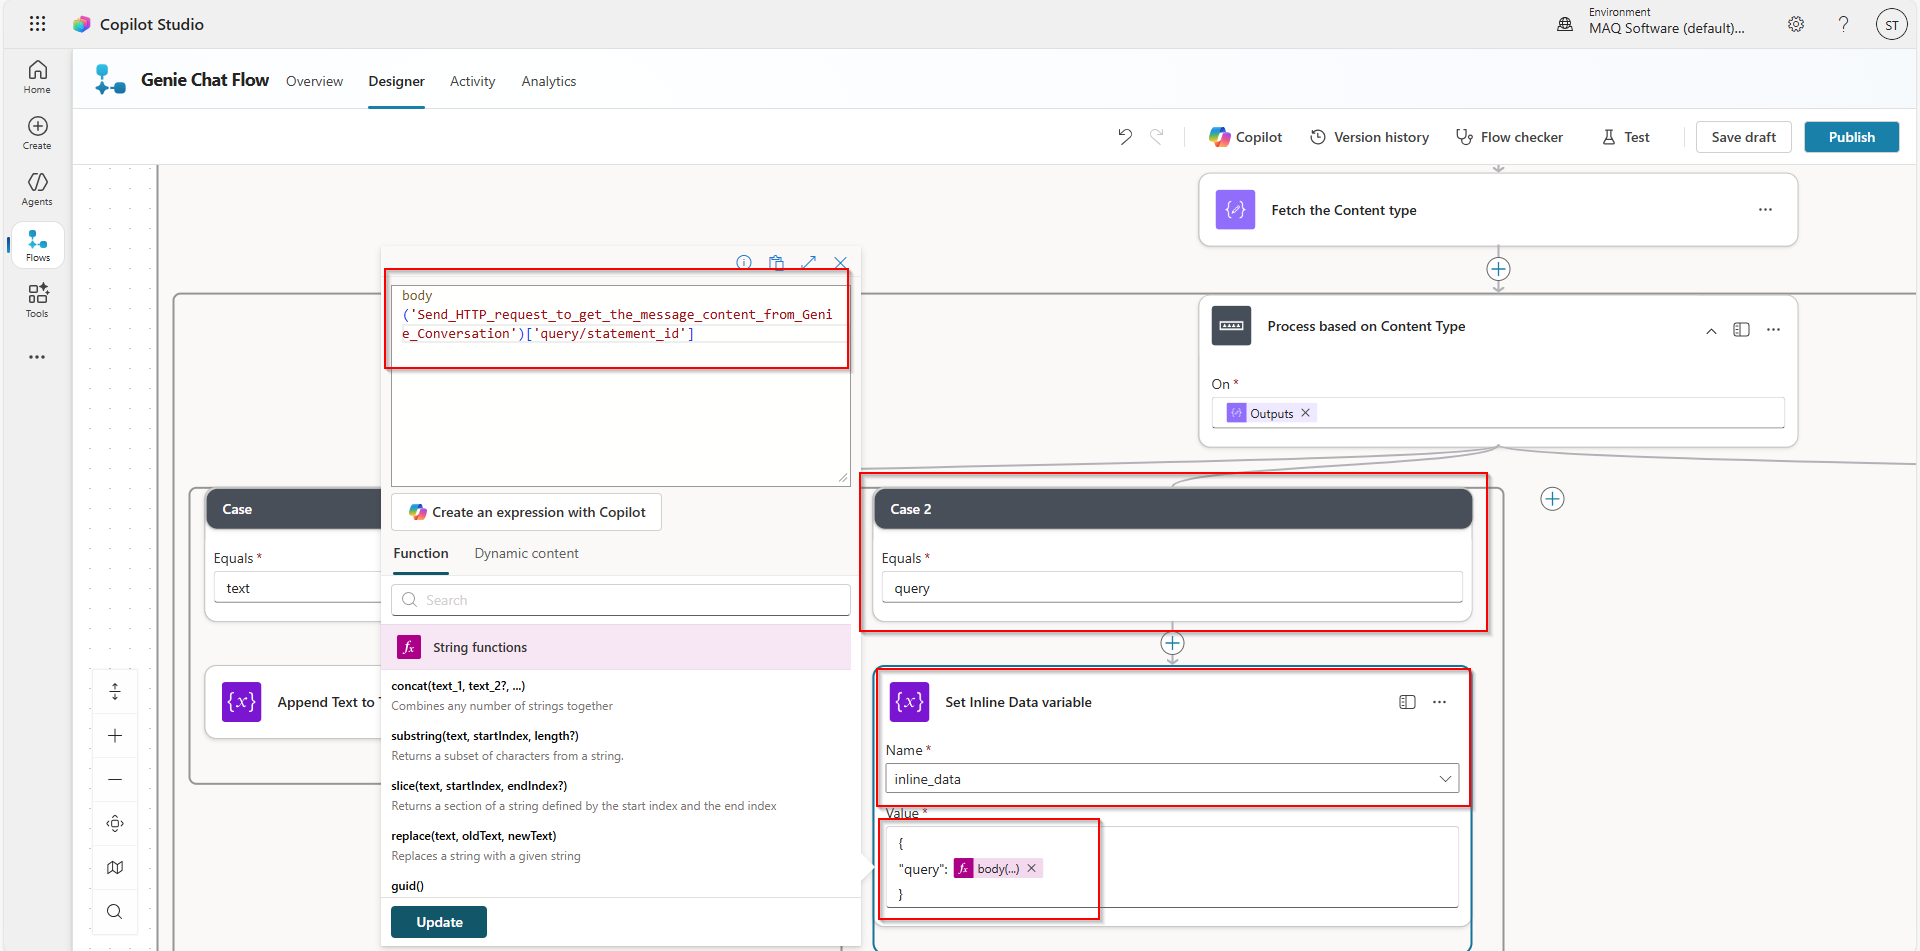
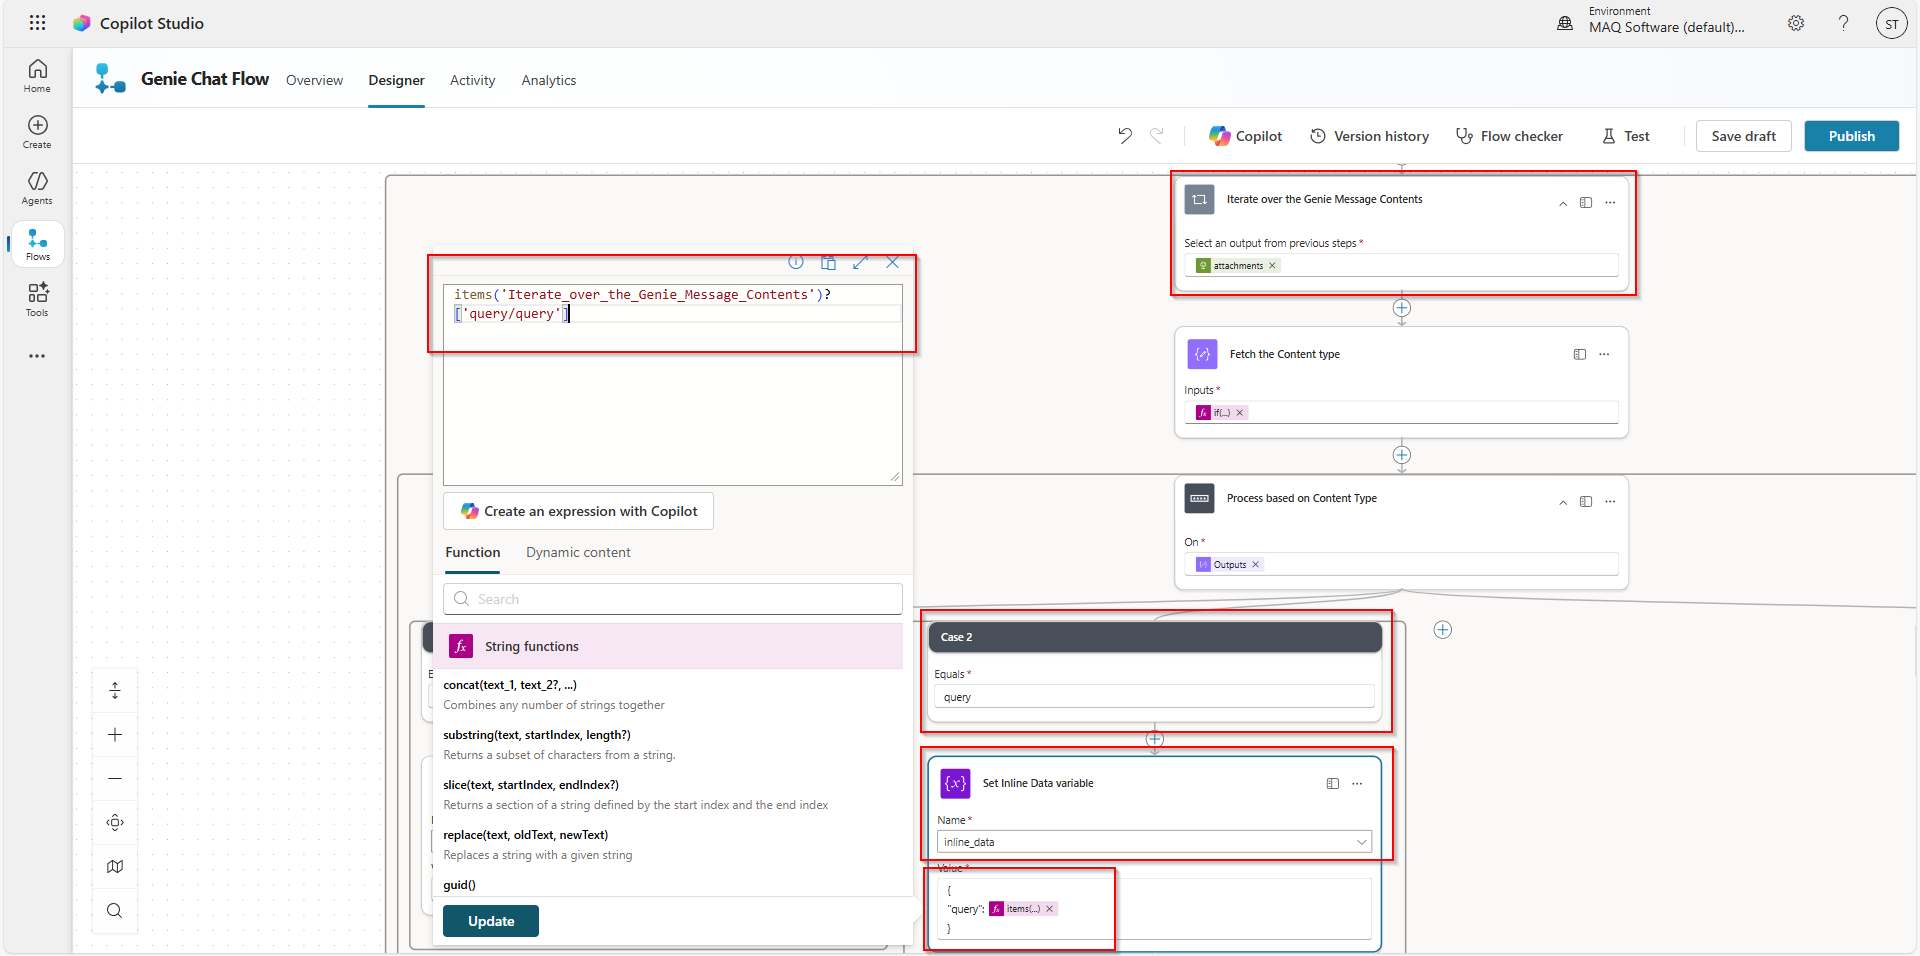
Minor changes 3

diff --git a/docs/agent-steps/Copilot_Studio_Agent_Flow_Setup.md b/docs/agent-steps/Copilot_Studio_Agent_Flow_Setup.md
@@ -9,12 +9,11 @@
 | 3 | Click on **New agent flow**. | ![step-2](../../screenshots/Copilot_Studio_Agent_Flow_Setup/step-2.png) |
 | 4 | Add the **When an agent calls the flow** trigger. Add an input for **User Query** as text. | ![step-3](../../screenshots/Copilot_Studio_Agent_Flow_Setup/step-3.png) |
 | 5 | Click on the Plus symbol under the **When an agent calls the flow** action. Search and add **Initialize Variable** actions for:<br>- **Space-ID** (String): User needs to fill the Space ID of the Databricks Genie <br>- **Token** (String): User needs to fill the PAT Token of Databricks <br>- **Text Output** (String): Stores text output from Databricks Genie - initial value to be left empty <br>- **Inline Data** (Object): Stores query results for visualization - initial value to be left empty | ![step-4](../../screenshots/Copilot_Studio_Agent_Flow_Setup/step-4.png) |
-| 6 | Add an **HTTP** action from the HTTP subsection to send a **POST** request to the Databricks Genie API to start the conversation:<br>- **URL:** `<Your Databricks endpoint>/api/2.0/genie/spaces/<Space-ID>/start-conversation`<br>- **Header:** `Authorization: Bearer <Token variable>`<br>- **Body:** JSON with `content: User Query` | ![step-5.1](../../screenshots/Copilot_Studio_Agent_Flow_Setup/step-5.1.png)<br>![step-5.2.1](../../screenshots/Copilot_Studio_Agent_Flow_Setup/step-5.2.1.png)<br>![step-5.2.2](../../screenshots/Copilot_Studio_Agent_Flow_Setup/step-5.2.2.png)![step-5.3](../../screenshots/Copilot_Studio_Agent_Flow_Setup/step-5.3.png)<br> |
-| 7 | Add an **HTTP** action to send a **GET** request to Databricks Genie API to get the status of the conversation message (use `conversation_id` and `message_id` from previous step):<br>- **URL:** `<Your Databricks endpoint>/api/2.0/genie/spaces/<Space-ID>/conversations/<conversation_id>/messages/<message_id>`<br>- **Header:** `Authorization: Bearer <Token variable>` | ![step-6.1](../../screenshots/Copilot_Studio_Agent_Flow_Setup/step-6.1.png)<br>![step-6.2](../../screenshots/Copilot_Studio_Agent_Flow_Setup/step-6.2.png) |
+| 6 | Add an **HTTP** action from the HTTP subsection to send a **POST** request to the Databricks Genie API to start the conversation:<br>- **URL:** `<Your Databricks endpoint>/api/2.0/genie/spaces/<Space-ID>/start-conversation`<br>- **Header:** `Authorization: Bearer <Token variable>`<br>- **Body:** JSON with `content: User Query` | ![step-5.1](../../screenshots/Copilot_Studio_Agent_Flow_Setup/step-5.1.png)<br>![step-5.2](../../screenshots/Copilot_Studio_Agent_Flow_Setup/step-5.2.png)<br>![step-5.3](../../screenshots/Copilot_Studio_Agent_Flow_Setup/step-5.3.png)![step-5.4](../../screenshots/Copilot_Studio_Agent_Flow_Setup/step-5.4.png)<br> |
+| 7 | Add an **HTTP** action to send a **GET** request to Databricks Genie API to get the status of the conversation message (use `conversation_id` and `message_id` from previous step):<br>- **conversation_id:** `body('HTTP action created in Step 6')?['conversation_id']`<br>- **message_id:** `body('HTTP action created in Step 6')?['message_id']`<br>- **URL:** `<Your Databricks endpoint>/api/2.0/genie/spaces/<Space-ID>/conversations/<conversation_id>/messages/<message_id>`<br>- **Header:** `Authorization: Bearer <Token variable>` | ![step-6.1](../../screenshots/Copilot_Studio_Agent_Flow_Setup/step-6.1.png)<br>![step-6.2](../../screenshots/Copilot_Studio_Agent_Flow_Setup/step-6.2.png) |
 | 8 | Add **Initialize Variable** action to store the status of the conversation message. | ![step-7](../../screenshots/Copilot_Studio_Agent_Flow_Setup/step-7.png) |
-| 9 | Add an **HTTP** action to send a **GET** request to Databricks Genie API to get the status of the conversation message every 5 seconds until the status is **SUCCEEDED**: <br>&nbsp;&nbsp;&nbsp;1. Add a **Do until** action to check the status. <br>&nbsp;&nbsp;&nbsp;2. Inside the **Do until** action, add a **Delay** action (not **Delay until** action) to keep a delay of 5 seconds between the pings. <br>&nbsp;&nbsp;&nbsp;3. Add an **HTTP** action from the HTTP subsection to send the get request from the Genie Conversation API using the following details:<br>&nbsp;&nbsp;&nbsp;&nbsp;&nbsp;&nbsp;- **URL:** `<Your Databricks endpoint>/api/2.0/genie/spaces/<Space-ID>/conversations/<conversation_id>/messages/<message_id>`<br>&nbsp;&nbsp;&nbsp;&nbsp;&nbsp;&nbsp;- **Header:** `Authorization: Bearer <Token variable>`<br>&nbsp;&nbsp;&nbsp;4. Add a **Set Variable** action to update the Status variable with the current value of HTTP action. <br>&nbsp;&nbsp;&nbsp;5. Update the until part with **Status** is equal to COMPLETED. | ![step-8.1](../../screenshots/Copilot_Studio_Agent_Flow_Setup/step-8.1.png)<br>![step-8.2](../../screenshots/Copilot_Studio_Agent_Flow_Setup/step-8.2.png)![step-8.3](../../screenshots/Copilot_Studio_Agent_Flow_Setup/step-8.3.png)<br>![step-8.4](../../screenshots/Copilot_Studio_Agent_Flow_Setup/step-8.4.png) |
-| 10 | Add an **HTTP** action to send a **GET** request to Databricks Genie API to get the message content:<br>- **URL:** `<Your Databricks endpoint>/api/2.0/genie/spaces/<Space-ID>/conversations/<conversation_id>/messages/<message_id>`<br>- **Header:** `Authorization: Bearer <Token variable>` | ![step-9](../../screenshots/Copilot_Studio_Agent_Flow_Setup/step-9.png) |
-| 11 | We get 2 types of message content from the Genie API: text and query. For simplicity, we are focusing only on the **text** part and will be just passing the **query** as is to the user. <br>&nbsp;&nbsp;&nbsp;1. Add an **Apply to each** action to iterate over the message contents fetched from the Databricks Genie API. <br>&nbsp;&nbsp;&nbsp;2. Add a **Compose** action for storing the result of the conditional statement as mentioned in the screenshot <br>&nbsp;&nbsp;&nbsp;3. Add a **Switch** action that checks the output of the previous Compose action. <br>&nbsp;&nbsp;&nbsp;&nbsp;&nbsp;&nbsp;- If the message content type is **text**, store it in the **Text Output** variable by adding an **Append variable** action. <br>&nbsp;&nbsp;&nbsp;&nbsp;&nbsp;&nbsp;- If the message content type is **query**, store it in the **Inline Data** variable by adding a **Set variable** action. | ![step-10.1](../../screenshots/Copilot_Studio_Agent_Flow_Setup/step-10.1.png)<br>![step-10.2](../../screenshots/Copilot_Studio_Agent_Flow_Setup/step-10.2.png)<br>![step-10.3](../../screenshots/Copilot_Studio_Agent_Flow_Setup/step-10.3.png)<br>![step-10.4](../../screenshots/Copilot_Studio_Agent_Flow_Setup/step-10.4.png)<br>![step-10.5](../../screenshots/Copilot_Studio_Agent_Flow_Setup/step-10.5.png) |
+| 9 | Add an **HTTP** action to send a **GET** request to Databricks Genie API to get the status of the conversation message every 5 seconds until the status is **COMPLETED**: <br>&nbsp;&nbsp;&nbsp;1. Add a **Do until** action to check the status. <br>&nbsp;&nbsp;&nbsp;2. Inside the **Do until** action, add a **Delay** action (not **Delay until** action) to keep a delay of 5 seconds between the pings. <br>&nbsp;&nbsp;&nbsp;3. Add an **HTTP** action from the HTTP subsection to send the get request from the Genie Conversation API using the following details:<br>&nbsp;&nbsp;&nbsp;&nbsp;&nbsp;&nbsp;- **conversation_id:** `body('HTTP action created in Step 6')?['conversation_id']`<br>&nbsp;&nbsp;&nbsp;&nbsp;&nbsp;&nbsp;- **message_id:** `body('HTTP action created in Step 6')?['message_id']`<br>&nbsp;&nbsp;&nbsp;&nbsp;&nbsp;&nbsp;- **URL:** `<Your Databricks endpoint>/api/2.0/genie/spaces/<Space-ID>/conversations/<conversation_id>/messages/<message_id>`<br>&nbsp;&nbsp;&nbsp;&nbsp;&nbsp;&nbsp;- **Header:** `Authorization: Bearer <Token variable>`<br>&nbsp;&nbsp;&nbsp;4. Add a **Set Variable** action to update the Status variable with the current value of HTTP action. <br>&nbsp;&nbsp;&nbsp;5. Update the until part with **Status** is equal to **COMPLETED**. Add the **Timeout** as `PT5M`. | ![step-8.1](../../screenshots/Copilot_Studio_Agent_Flow_Setup/step-8.1.png)<br>![step-8.2](../../screenshots/Copilot_Studio_Agent_Flow_Setup/step-8.2.png)![step-8.3](../../screenshots/Copilot_Studio_Agent_Flow_Setup/step-8.3.png)<br>![step-8.4](../../screenshots/Copilot_Studio_Agent_Flow_Setup/step-8.4.png) |
+| 10 | Add an **HTTP** action to send a **GET** request to Databricks Genie API to get the message content:<br>&nbsp;&nbsp;&nbsp;- **conversation_id:** `body('HTTP action created in Step 6')?['conversation_id']`<br>&nbsp;&nbsp;&nbsp;- **message_id:** `body('HTTP action created in Step 6')?['message_id']`<br>&nbsp;&nbsp;&nbsp;- **URL:** `<Your Databricks endpoint>/api/2.0/genie/spaces/<Space-ID>/conversations/<conversation_id>/messages/<message_id>`<br>&nbsp;&nbsp;&nbsp;- **Header:** `Authorization: Bearer <Token variable>` | ![step-9](../../screenshots/Copilot_Studio_Agent_Flow_Setup/step-9.png) |
+| 11 | We get 2 types of message content from the Genie API: text and query. For simplicity, we are focusing only on the **text** part and will be just passing the **query** as is to the user. <br>&nbsp;&nbsp;&nbsp;1. Add an **Apply to each** action to iterate over the message contents fetched from the Databricks Genie API. <br>&nbsp;&nbsp;&nbsp;&nbsp;&nbsp;&nbsp;- **attachments:** `body('HTTP action created in Step 10')?['attachments']`<br>&nbsp;&nbsp;&nbsp;2. Add a **Compose** action for storing the result of the conditional statement as mentioned in the screenshot. <br>&nbsp;&nbsp;&nbsp;3. Add a **Switch** action that checks the output of the previous Compose action. Click on the Plus symbol to add cases. <br>&nbsp;&nbsp;&nbsp;&nbsp;&nbsp;&nbsp;- If the message content type is **text**, store it in the **Text Output** variable by adding an **Append variable** action. <br>&nbsp;&nbsp;&nbsp;&nbsp;&nbsp;&nbsp;- If the message content type is **query**, store it in the **Inline Data** variable by adding a **Set variable** action. | ![step-10.1](../../screenshots/Copilot_Studio_Agent_Flow_Setup/step-10.1.png)<br>![step-10.2](../../screenshots/Copilot_Studio_Agent_Flow_Setup/step-10.2.png)<br>![step-10.3](../../screenshots/Copilot_Studio_Agent_Flow_Setup/step-10.3.png)<br>![step-10.4](../../screenshots/Copilot_Studio_Agent_Flow_Setup/step-10.4.png)<br>![step-10.5](../../screenshots/Copilot_Studio_Agent_Flow_Setup/step-10.5.png) |
 | 12 | Add a **Respond to the agent** action to respond with a structured JSON output to the Agent containing **User Query**, **Text Output**, and **Inline Data**. | ![step-11](../../screenshots/Copilot_Studio_Agent_Flow_Setup/step-11.png) |
 | 13 | Click on **Save draft** and then **Publish**. | ![step-12](../../screenshots/Copilot_Studio_Agent_Flow_Setup/step-12.png) |
-

diff --git a/docs/agent-steps/Integration_and_Publish_to_Teams.md b/docs/agent-steps/Integration_and_Publish_to_Teams.md
@@ -6,7 +6,8 @@
 | Step | Description | Screenshot |
 |------|-------------|------------|
 | 1 | Once the flow has been created, add it as a tool to the Agent. | ![step-1.1.1](../../screenshots/Integration_and_Publish_to_Teams/step-1.1.1.png)<br>![step-1.1.2.1](../../screenshots/Integration_and_Publish_to_Teams/step-1.1.2.1.png)<br>![step-1.1.2.2](../../screenshots/Integration_and_Publish_to_Teams/step-1.1.2.2.png)<br>![step-1.1.3](../../screenshots/Integration_and_Publish_to_Teams/step-1.1.3.png)<br>![step-1.1.4](../../screenshots/Integration_and_Publish_to_Teams/step-1.1.4.png) |
-| 2 | After adding, test the bot in the playground. | ![step-1.2](../../screenshots/Integration_and_Publish_to_Teams/step-1.2.png) |
+| 2 | After adding, click on the flow. Go to the **User Query** under the Inputs tab. Update the Fill using to **Custom Value** and Value to **LastMessage.Text**. Make sure that the flow is enabled and click on **Save**. | ![step-1.2.1](../../screenshots/Integration_and_Publish_to_Teams/step-1.2.1.png)<br>![step-1.2.2](../../screenshots/Integration_and_Publish_to_Teams/step-1.2.2.png)<br>![step-1.2.3](../../screenshots/Integration_and_Publish_to_Teams/step-1.2.3.png)<br>![step-1.2.4](../../screenshots/Integration_and_Publish_to_Teams/step-1.2.4.png) |
+| 3 | After saving, test the bot in the playground. | ![step-1.3](../../screenshots/Integration_and_Publish_to_Teams/step-1.3.png) |
 
 ## Publish to Teams
 

diff --git a/docs/agent-steps/Copilot_Studio_Agent_Setup.md b/docs/agent-steps/Copilot_Studio_Agent_Setup.md
@@ -27,5 +27,5 @@
 |------|-------------|------------|
 | 1 | Select the newly created agent on the Agent page. | ![step-3.1](../../screenshots/Copilot_Studio_Agent_Setup/step-3.1.png) |
 | 2 | Click on the **Tools** tab, click on **Add a tool** button, then the **Flow** tab. | ![step-3.2.1](../../screenshots/Copilot_Studio_Agent_Setup/step-3.2.1.png)<br>![step-3.2.2](../../screenshots/Copilot_Studio_Agent_Setup/step-3.2.2.png) |
-| 3 | Click on the Agent flow you want to add, then click **Add and configure**. | ![step-3.3](../../screenshots/Copilot_Studio_Agent_Setup/step-3.3.png) |
+| 3 | Click on the Agent flow you want to add (the one you created in the previous guide), then click **Add and configure**. | ![step-3.3](../../screenshots/Copilot_Studio_Agent_Setup/step-3.3.png) |
 | 4 | Ensure the flow is **Enabled** and click **Save**. | ![step-3.4](../../screenshots/Copilot_Studio_Agent_Setup/step-3.4.png) |
